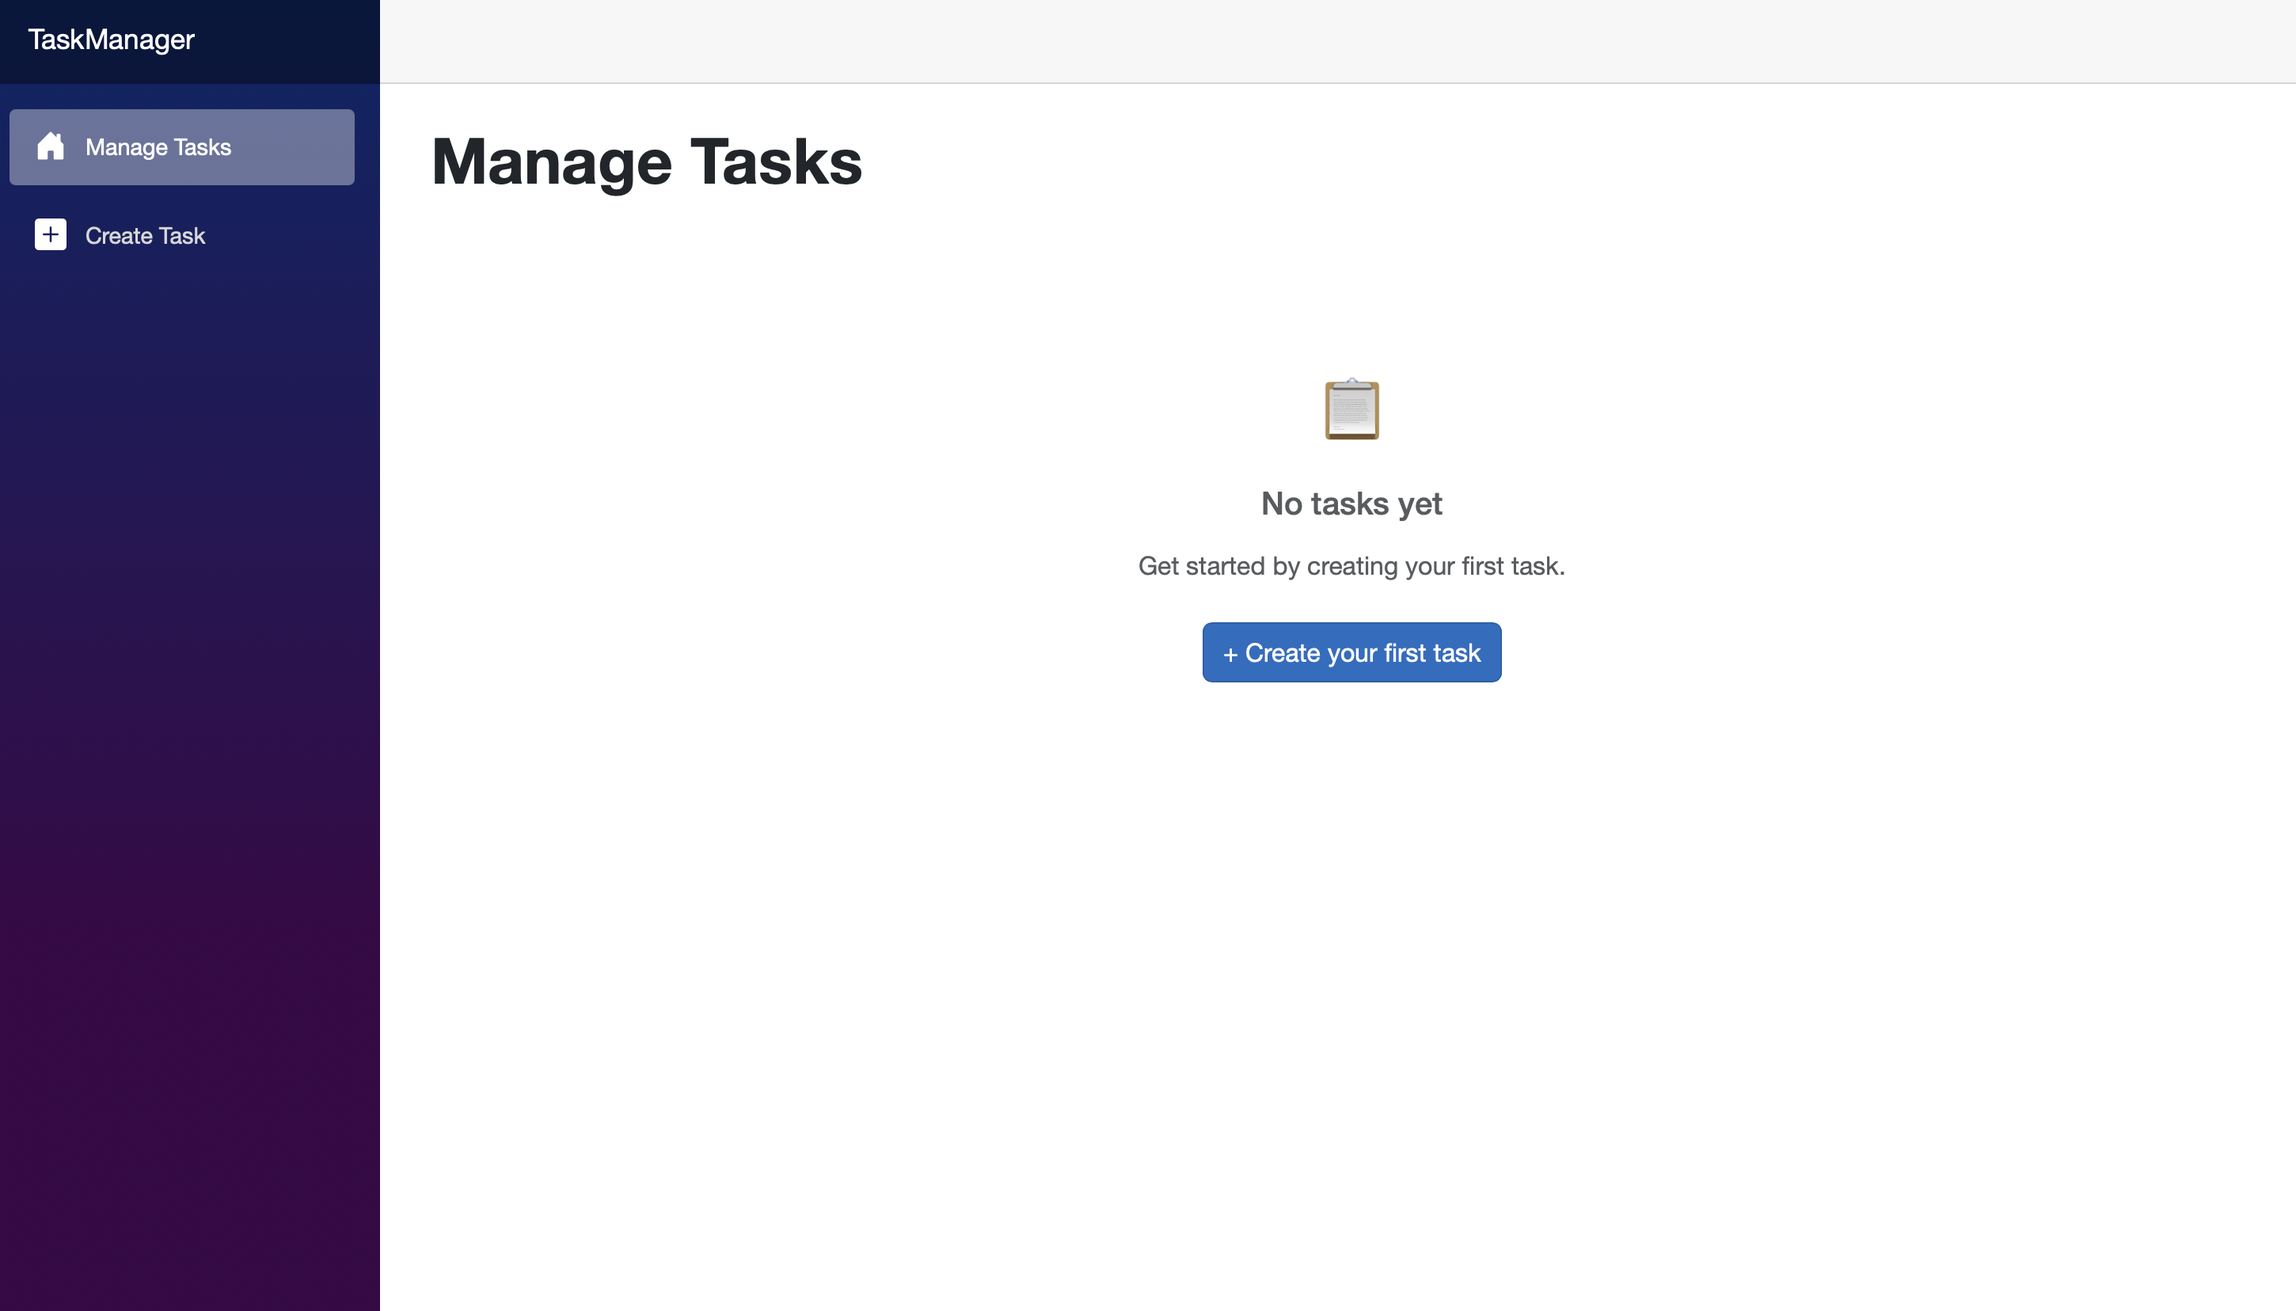
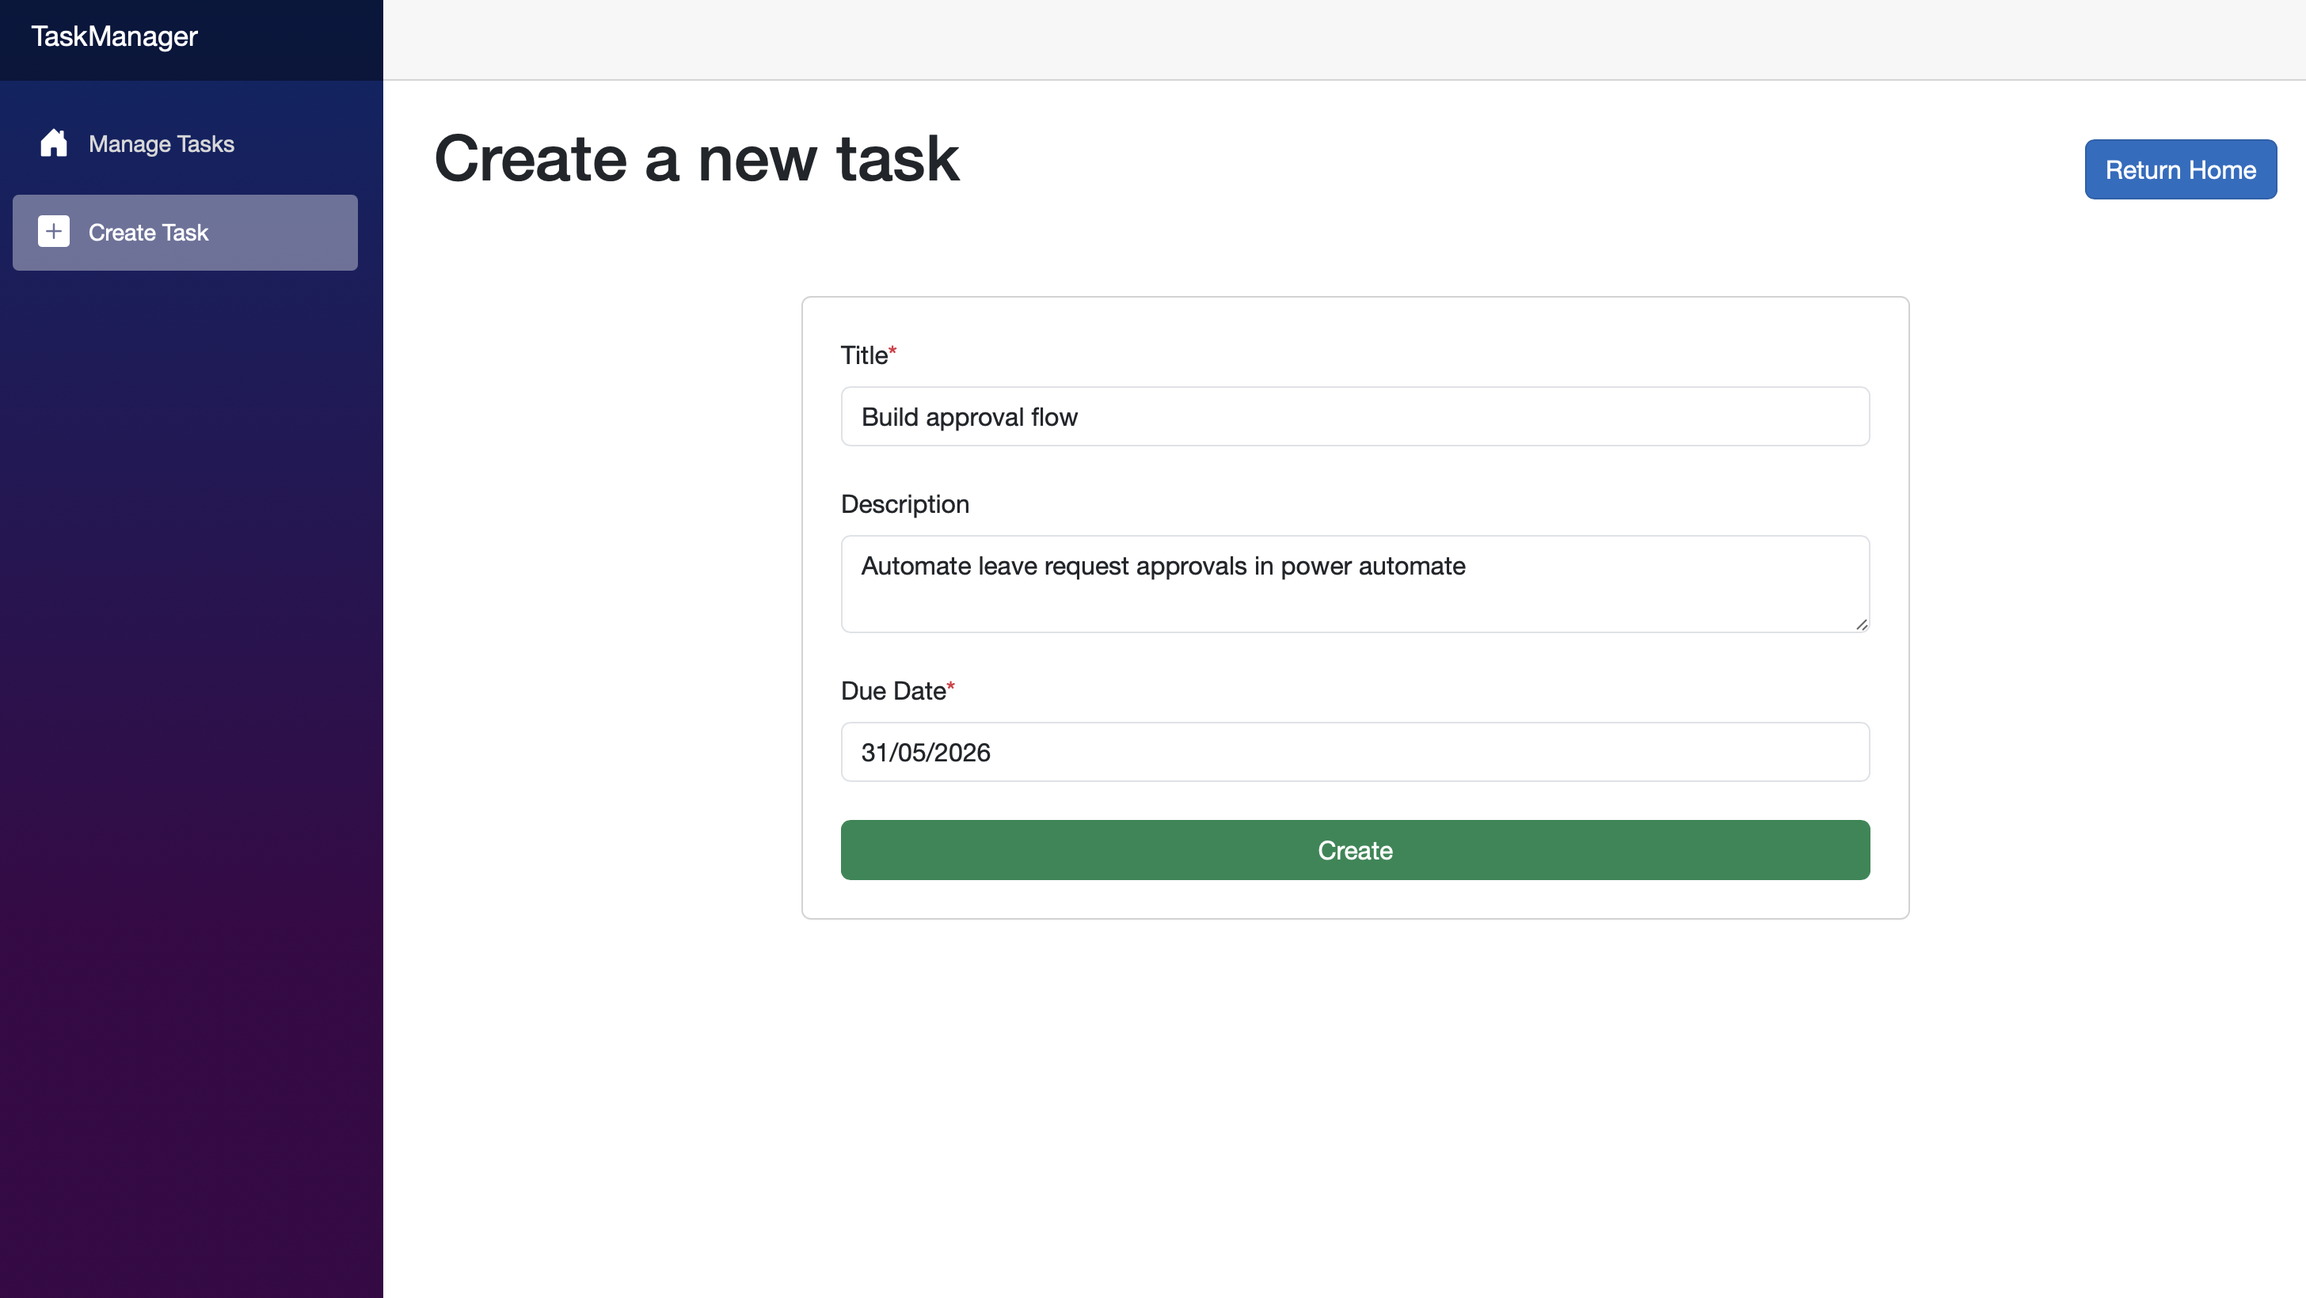
Create task details screen, add new PUT method for updating a task from details screen and make due date field mandatory

diff --git a/TaskManager.Tests/TaskServiceTests.cs b/TaskManager.Tests/TaskServiceTests.cs
@@ -35,7 +35,47 @@ public class TaskServiceTests
 
         Assert.Equal("Test task", task.Title);
         Assert.Equal("Pending", task.Status);
+    }
+
+    [Fact]
+    public async Task CreateAsync_PersistsToDatabase()
+    {
+        using var db = CreateDb();
+        var service = new TaskService(db);
+
+        await service.CreateAsync("Test task", "desc", DateTime.UtcNow.AddDays(1));
+
         Assert.Equal(1, await db.Tasks.CountAsync());
+    }
+
+    [Fact]
+    public async Task CreateAsync_Throws_WhenTitleIsEmpty()
+    {
+        using var db = CreateDb();
+        var service = new TaskService(db);
+
+        await Assert.ThrowsAsync<ArgumentException>(
+            () => service.CreateAsync("", null, null));
+    }
+
+    [Fact]
+    public async Task CreateAsync_Throws_WhenTitleIsWhitespace()
+    {
+        using var db = CreateDb();
+        var service = new TaskService(db);
+
+        await Assert.ThrowsAsync<ArgumentException>(
+            () => service.CreateAsync("   ", null, null));
+    }
+
+    [Fact]
+    public async Task CreateAsync_Throws_WhenDueDateIsNull()
+    {
+        using var db = CreateDb();
+        var service = new TaskService(db);
+
+        await Assert.ThrowsAsync<ArgumentException>(
+            () => service.CreateAsync("Title", null, null));
     }
 
     [Fact]
@@ -84,6 +124,44 @@ public class TaskServiceTests
         var result = await service.UpdateStatusAsync(999, "Completed");
 
         Assert.Null(result);
+    }
+
+    [Fact]
+    public async Task UpdateAsync_UpdatesTask_WhenFound()
+    {
+        using var db = CreateDb();
+        var service = new TaskService(db);
+        var created = await service.CreateAsync("Old Title", "Old Desc", DateTime.UtcNow.AddDays(1));
+
+        var result = await service.UpdateAsync(created.Id, "New Title", "New Desc", DateTime.UtcNow.AddDays(5), "Cancelled");
+
+        Assert.NotNull(result);
+        Assert.Equal("New Title", result.Title);
+        Assert.Equal("New Desc", result.Description);
+        Assert.Equal("Cancelled", result.Status);
+        Assert.Equal(DateTime.UtcNow.AddDays(5).Date, result.DueDate!.Value.Date);
+    }
+
+    [Fact]
+    public async Task UpdateAsync_ReturnsNull_WhenNotFound()
+    {
+        using var db = CreateDb();
+        var service = new TaskService(db);
+
+        var result = await service.UpdateAsync(999, "Title", "Desc", DateTime.UtcNow, "Pending");
+
+        Assert.Null(result);
+    }
+
+    [Fact]
+    public async Task UpdateAsync_Throws_WhenDueDateIsNull()
+    {
+        using var db = CreateDb();
+        var service = new TaskService(db);
+        var created = await service.CreateAsync("Title", null, DateTime.UtcNow.AddDays(1));
+
+        await Assert.ThrowsAsync<ArgumentException>(
+            () => service.UpdateAsync(created.Id, "Title", null, null, "Pending"));
     }
 
     [Fact]

diff --git a/TaskManager.Api/Controllers/TasksController.cs b/TaskManager.Api/Controllers/TasksController.cs
@@ -30,8 +30,15 @@ public class TasksController(TaskService taskService) : ControllerBase
     {
         if (string.IsNullOrWhiteSpace(request.Title)) return BadRequest("Title is required");
 
-        TaskItem? task = await taskService.CreateAsync(request.Title, request.Description, request.DueDate);
-        return CreatedAtAction(nameof(GetById), new { id = task.Id }, task);
+        try
+        {
+            TaskItem? task = await taskService.CreateAsync(request.Title, request.Description, request.DueDate);
+            return CreatedAtAction(nameof(GetById), new { id = task.Id }, task);
+        }
+        catch (ArgumentException ex)
+        {
+            return BadRequest(ex.Message);
+        }
 
     }
 
@@ -40,12 +47,35 @@ public class TasksController(TaskService taskService) : ControllerBase
     public async Task<IActionResult> UpdateStatus(int id, [FromBody] UpdateStatusRequest request)
     {
         if (string.IsNullOrWhiteSpace(request.NewStatus)) return BadRequest("Status is required");
+        try
+        {
+            TaskItem? updatedTask = await taskService.UpdateStatusAsync(id, request.NewStatus);
+            if (updatedTask is null) return NotFound();
+            return Ok(updatedTask);
+        }
+        catch (ArgumentException ex)
+        {
+            return BadRequest(ex.Message);
+        }
+    }
 
-        TaskItem? updatedTask = await taskService.UpdateStatusAsync(id, request.NewStatus);
-    
-        if (updatedTask is null) return NotFound();
-        return Ok(updatedTask);
 
+    // PUT /api/tasks/{id}
+    [HttpPut("{id:int}")]
+    public async Task<IActionResult> Update(int id, [FromBody] UpdateTaskRequest request)
+    {
+        if (string.IsNullOrWhiteSpace(request.Title)) return BadRequest("Title is required");
+
+        try
+        {
+            TaskItem? task = await taskService.UpdateAsync(id, request.Title, request.Description, request.DueDate, request.Status);
+            if (task is null) return NotFound();
+            return Ok(task);
+        }
+        catch (ArgumentException ex)
+        {
+            return BadRequest(ex.Message);
+        }
     }
 
     // DELETE /api/tasks/{id}
@@ -61,4 +91,6 @@ public class TasksController(TaskService taskService) : ControllerBase
 // Define the expected JSON shape for a task creation
 public record CreateTaskRequest(string Title, string? Description, DateTime? DueDate);
 public record UpdateStatusRequest(string NewStatus);
+public record UpdateTaskRequest(string Title, string? Description, DateTime? DueDate, string Status);
+
 

diff --git a/TaskManager.Api/Services/TaskService.cs b/TaskManager.Api/Services/TaskService.cs
@@ -8,6 +8,8 @@ namespace TaskManager.Api.Services;
 
 public class TaskService(AppDbContext db)
 {
+    private static readonly HashSet<string> ValidStatuses = ["Pending", "InProgress", "Completed", "Cancelled"];
+
     // Get all tasks, sort by due date
     public async Task<List<TaskItem>> GetAllAsync() =>
         await db.Tasks.OrderBy(t => t.DueDate).ToListAsync();
@@ -20,6 +22,11 @@ public class TaskService(AppDbContext db)
     // Default status to pending
     public async Task<TaskItem> CreateAsync(string title, string? description, DateTime? dueDate)
     {
+        if (string.IsNullOrWhiteSpace(title))
+            throw new ArgumentException("Title is required");
+        if (dueDate is null)
+            throw new ArgumentException("Due date is required");
+
         TaskItem task = new TaskItem
         {
             Title = title,
@@ -37,9 +44,33 @@ public class TaskService(AppDbContext db)
     // Return null if task not found
     public async Task<TaskItem?> UpdateStatusAsync(int id, string newStatus)
     {
+        if (!ValidStatuses.Contains(newStatus))
+            throw new ArgumentException($"Invalid status: {newStatus}");
+
         TaskItem? task = await db.Tasks.FindAsync(id);
         if (task is null) return null;
         task.Status = newStatus;
+        await db.SaveChangesAsync();
+        return task;
+    }
+
+    // Update existing task
+    // Return null if task not found
+    public async Task<TaskItem?> UpdateAsync(int id, string title, string? description, DateTime? dueDate, string status)
+    {
+        if (string.IsNullOrWhiteSpace(title))
+            throw new ArgumentException("Title is required");
+        if (dueDate is null)
+            throw new ArgumentException("Due date is required");
+        if (!ValidStatuses.Contains(status))
+            throw new ArgumentException($"Invalid status: {status}");
+
+        TaskItem? task = await db.Tasks.FindAsync(id);
+        if (task is null) return null;
+        task.Title = title;
+        task.Description = description;
+        task.DueDate = dueDate;
+        task.Status = status;
         await db.SaveChangesAsync();
         return task;
     }

diff --git a/TaskManager/Services/TaskApiService.cs b/TaskManager/Services/TaskApiService.cs
@@ -7,11 +7,19 @@ public class TaskApiService(IHttpClientFactory httpClientFactory)
 {
     private HttpClient HttpClient => httpClientFactory.CreateClient("TaskAPI");
 
-    public async Task<List<TaskItem>> GetAllTasksAsync() =>
-        await HttpClient.GetFromJsonAsync<List<TaskItem>>("api/tasks") ?? new List<TaskItem>();
+    public async Task<List<TaskItem>> GetAllTasksAsync()
+    {
+        var response = await HttpClient.GetAsync("api/tasks");
+        if (!response.IsSuccessStatusCode) return new List<TaskItem>();
+        return await response.Content.ReadFromJsonAsync<List<TaskItem>>() ?? new List<TaskItem>();
+    }
 
-    public async Task<TaskItem?> GetTaskByIdAsync(int id) =>
-        await HttpClient.GetFromJsonAsync<TaskItem>($"api/tasks/{id}");
+    public async Task<TaskItem?> GetTaskByIdAsync(int id)
+    {
+        var response = await HttpClient.GetAsync($"api/tasks/{id}");
+        if (!response.IsSuccessStatusCode) return null;
+        return await response.Content.ReadFromJsonAsync<TaskItem>();
+    }
 
     public async Task<TaskItem?> CreateTaskAsync(string title, string? description, DateTime? dueDate)
     {
@@ -30,6 +38,19 @@ public class TaskApiService(IHttpClientFactory httpClientFactory)
         var response = await HttpClient.PatchAsJsonAsync($"api/tasks/{id}/status", new
         {
             NewStatus = newStatus
+        });
+        if (response.IsSuccessStatusCode) return await response.Content.ReadFromJsonAsync<TaskItem>();
+        return null;
+    }
+
+    public async Task<TaskItem?> UpdateTaskAsync(int id, string title, string? description, DateTime? dueDate, string status)
+    {
+        var response = await HttpClient.PutAsJsonAsync($"api/tasks/{id}", new
+        {
+            Title = title,
+            Description = description,
+            DueDate = dueDate,
+            Status = status
         });
         if (response.IsSuccessStatusCode) return await response.Content.ReadFromJsonAsync<TaskItem>();
         return null;

diff --git a/TaskManager.Api/Program.cs b/TaskManager.Api/Program.cs
@@ -18,8 +18,7 @@ builder.Services.AddOpenApi();
 
 var app = builder.Build();
 
-// Empty the database on startup
-// EnsureCreated will create the database if it doesn't exist
+// Create the database if it doesn't exist
 using (var scope = app.Services.CreateScope())
 {
     var db = scope.ServiceProvider.GetRequiredService<AppDbContext>();

diff --git a/README.md b/README.md
@@ -1,11 +1,18 @@
 # HMCTS Task Manager
 
-A task management system for caseworkers to create and manage tasks.
+A simple task management system designed for caseworkers to create, track, and manage tasks efficiently.
 
 ## Tech Stack
 - **Backend:** ASP.NET Core Web API, Entity Framework Core, SQLite
 - **Frontend:** Blazor Server (.NET 10)
 - **Tests:** xUnit
+
+### Why Blazor?
+
+Although HMCTS provided starter templates for a Java backend and a Node.js frontend, the brief allowed flexibility in choosing other technologies. I decided to take a different approach, using ASP.NET Core for the API and Blazor Server for the frontend, keeping the entire stack in C#.
+
+While I have some experience with JavaScript, I had recently completed a course where I built a REST API integrated with a Blazor frontend, and I wanted to apply that knowledge in a real project. Working within the .NET ecosystem also allowed me to move quickly and maintain consistent patterns across the API, frontend, and tests without needing to switch between languages or toolchains.
+
 
 ## Prerequisites
 
@@ -18,7 +25,7 @@ dotnet --version
 
 ## Running the Application
 
-The backend API and frontend are separate projects. **Open two terminals and run both at the same time.**
+The solution consists of two projects: the API and the frontend. Both need to be running simultaneously.
 
 **Terminal 1 — API**
 ```
@@ -32,7 +39,9 @@ Runs at `http://localhost:5282`
 cd TaskManager
 dotnet run
 ```
-Runs at `http://localhost:5026` — browser opens automatically. If not, navigate there manually.
+Runs at `http://localhost:5026` 
+
+If the browser does not open automatically, navigate to `http://localhost:5026`.
 
 ## API Endpoints
 
@@ -42,37 +51,64 @@ Runs at `http://localhost:5026` — browser opens automatically. If not, navigat
 | GET | `/api/tasks/{id}` | Get task by ID |
 | POST | `/api/tasks` | Create a task |
 | PATCH | `/api/tasks/{id}/status` | Update task status |
+| PUT | `/api/tasks/{id}` | Update a task (title, description, due date, status) |
 | DELETE | `/api/tasks/{id}` | Delete a task |
 
-## Running Tests
+## Validation & Error Handling
+
+**Error Handling in API**
+- **Title is required** - returns `400 Bad Request` if title is missing
+- **Status is required** - returns `400 Bad Request` if status is missing on update
+- **Not found** - returns `404 Not Found` for requests on non-existent tasks
+- **Delete** - a successful delete operation returns `204 No Content`
+
+**Front End Validation**
+- **Title and due date required** - the create button remains disabled until both a title and due date are provided
+- **Error message** - if the create task API call fails, an error message is displayed briefly
+
+> **Note:** CORS is configured to allow any origin for local development. In a production environment this should be restricted to the known frontend origin.
+
+## Running Unit Tests
+
+The test suite covers all core service methods including creating, retrieving, updating, and deleting tasks. Tests use an in-memory database so no setup is required.
 
 ```
 cd TaskManager.Tests
 dotnet test
 ```
 
-## Why Blazor?
-
-Although HMCTS provided starter templates for a Java backend and a Node.js frontend, the brief allowed flexibility in choosing other technologies. I decided to take a different approach, using ASP.NET Core for the API and Blazor Server for the frontend—keeping the entire stack in C#.
-
-While I have some experience with JavaScript, I had recently completed a course where I built a REST API integrated with a Blazor frontend, and I wanted to apply that knowledge in a real project. Working within the .NET ecosystem also allowed me to move quickly and maintain consistent patterns across the API, frontend, and tests without needing to switch between languages or toolchains.
-
 ## App Demo
 
 ### Empty State
 When no tasks exist, the application displays an empty state prompt encouraging the user to create their first task.
 
-![Empty State](screenshots/empty-state.png)
+![Empty State](Screenshots/empty-state.png)
 
 ### Creating a Task
-Navigate to the Create Task page to add a new task. The form accepts a title (required), an optional description, and an optional due date. The **Create** button remains disabled until a title has been entered, preventing empty submissions. A success message confirms the task was created, and the form resets automatically.
+Users can create a task by providing:
+- A title (required)
+- An optional description
+- An optional due date
 
-![Create Task](screenshots/create-task.png)
+The **Create** button remains disabled until a title and due date have been entered, preventing empty submissions. A success message confirms the task was created, and the user is automatically returned to the manage tasks screen. 
+
+If the task fails to create, an error message is displayed briefly before clearing automatically.
+
+
+![Create Task](Screenshots/create-task.png)
 
 ### Managing Tasks
-All tasks are displayed in a table ordered by due date. From here, caseworkers can:
+All tasks are displayed in a table ordered by due date. From here, users can:
 
 - **Update status** — use the dropdown to change a task between Pending, InProgress, Completed, and Cancelled
 - **Delete a task** — permanently removes the task from the system
+- **Open a task** - select a task in the table to open its details page, where you can make edits
 
-![Manage Tasks](screenshots/manage-tasks.png)
+To enhance usability, conditional formatting is applied to the list: cancelled tasks are highlighted in red, while completed tasks are shown in green, making them easy to distinguish at a glance.
+
+![Manage Tasks](Screenshots/manage-tasks.png)
+
+### Updating an existing task
+Users can update an existing task by selecting it from the table on the home screen, which opens the task details page. From here, users can view all task information and modify the title, status, and description. The **Save Changes** button is disabled if title or due date are empty.
+
+![Manage Tasks](Screenshots/task-details.png)
